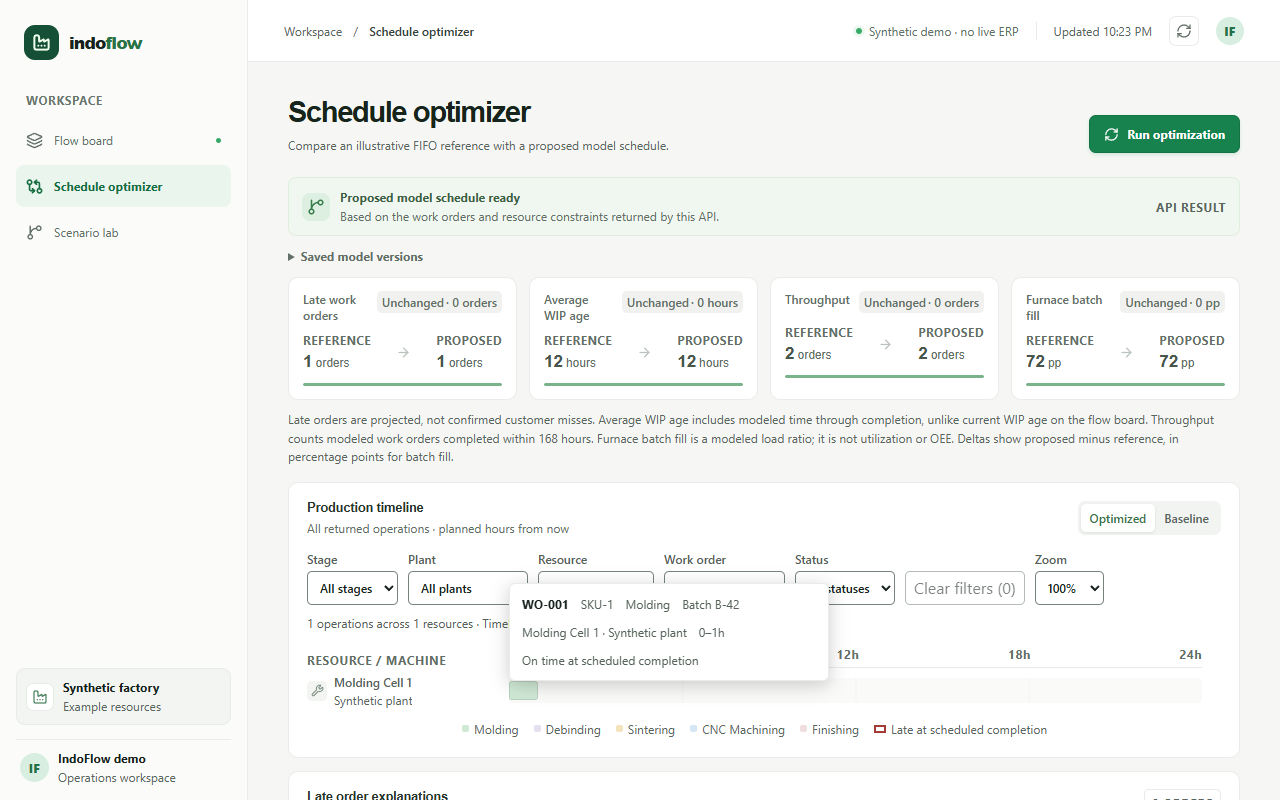
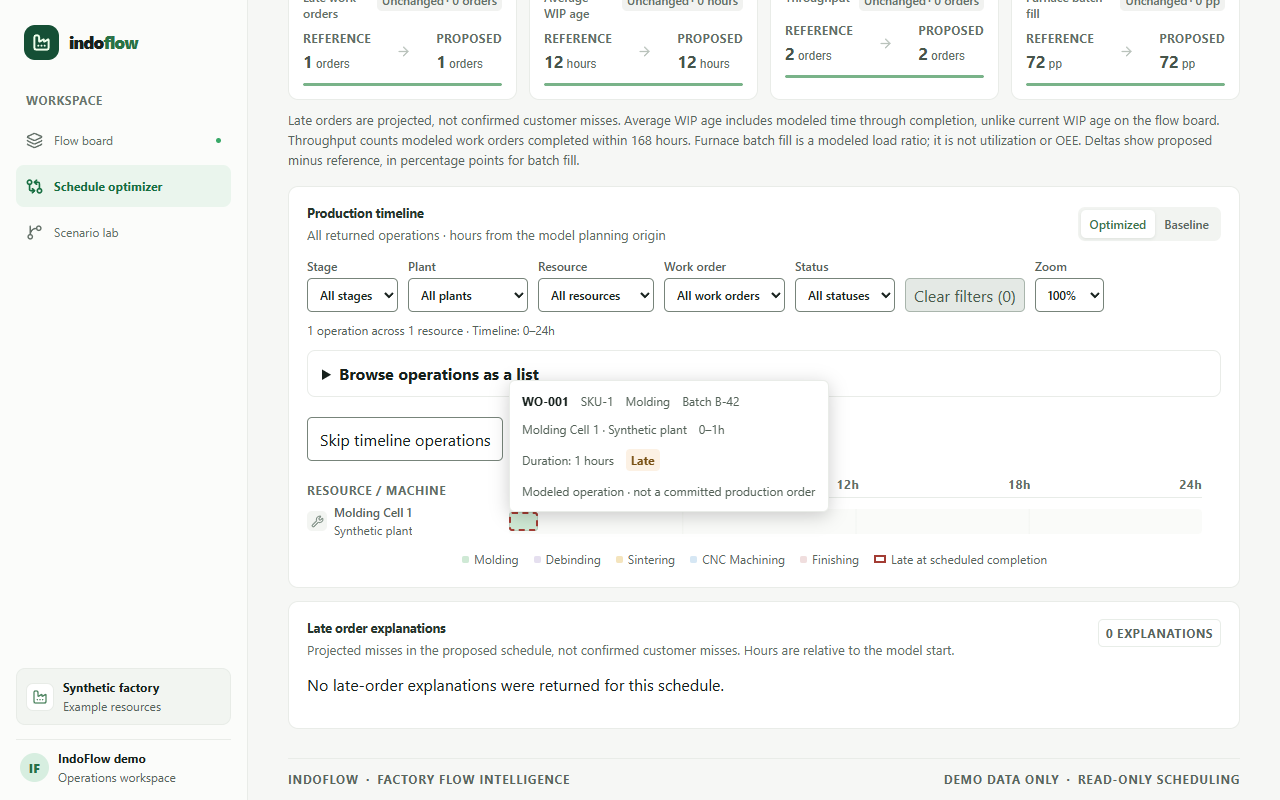
Show operation stages on timeline bars

diff --git a/frontend/src/Gantt.test.tsx b/frontend/src/Gantt.test.tsx
@@ -30,6 +30,19 @@ const second: ScheduledOperation = {
 afterEach(cleanup)
 
 describe('Gantt controls', () => {
+  it('shows the stage on bars and in details for narrow operations', () => {
+    const narrow = { ...first, end_hour: 0.1 }
+    render(<Gantt operations={[narrow]} maxHour={24} />)
+    const bar = screen.getByRole('button', { name: /^WO-1, A, Sintering,/ })
+    expect(bar).toHaveTextContent('Sintering · WO-1')
+    fireEvent.mouseEnter(bar)
+    expect(document.querySelector('.gantt-detail')).toHaveTextContent('Sintering')
+    fireEvent.click(bar)
+    expect(screen.getByRole('region', { name: 'Selected operation details' })).toHaveTextContent(
+      'Sintering',
+    )
+  })
+
   it('shows dismissible hover details without moving focus or replacing an activated selection', async () => {
     render(<Gantt operations={[first, second]} maxHour={24} />)
     const firstBar = screen.getByRole('button', { name: /^WO-1, A/ })

diff --git a/frontend/src/Gantt.tsx b/frontend/src/Gantt.tsx
@@ -508,7 +508,9 @@ export function Gantt({
                               setSelected(item)
                             }}
                           >
-                            <span aria-hidden="true">{item.wo_number}</span>
+                            <span aria-hidden="true">
+                              {item.stage} · {item.wo_number}
+                            </span>
                           </button>
                         )
                       })}

diff --git a/frontend/docs/FRONTEND_IMPLEMENTATION_HANDOFF.md b/frontend/docs/FRONTEND_IMPLEMENTATION_HANDOFF.md
@@ -148,3 +148,5 @@ The final responsive pass checked all three populated screens at 320, 390, 768, 
 
 - Disabled primary and secondary actions now use a muted surface with readable text instead of fading the whole control. The synthetic Edge walkthrough covered an invalid scenario and saved `screenshots/scenario-disabled-mobile.png`; the screenshot was inspected. Other disabled control types still need the full-state contrast review.
 - Gantt filter and pagination buttons now share the readable disabled-control colors. The synthetic Edge walkthrough passed, and the updated `screenshots/gantt-list-mobile.png` was inspected.
+
+- Timeline bars now include the stage in their visible label. Narrow bars expose the full stage in hover and selected details and in the operation list. The Gantt component tests and synthetic Edge flow passed; the hover screenshot was inspected. Full non-color status and contrast coverage remains open.
